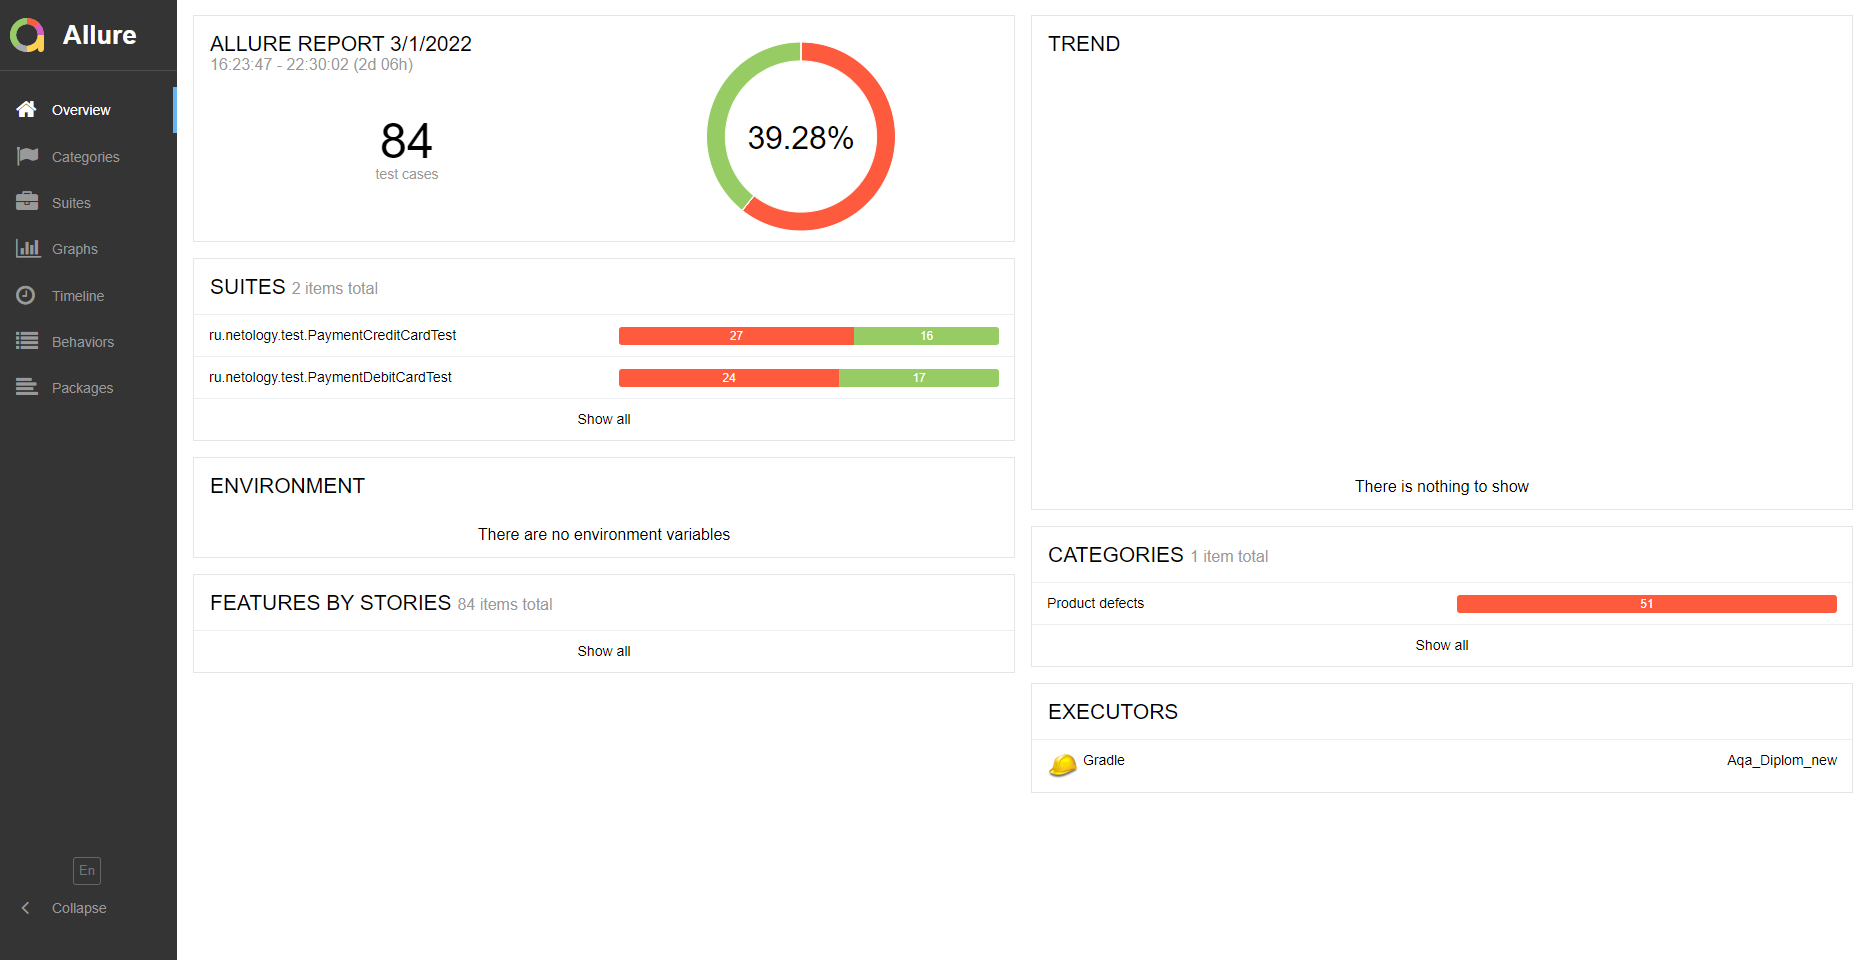
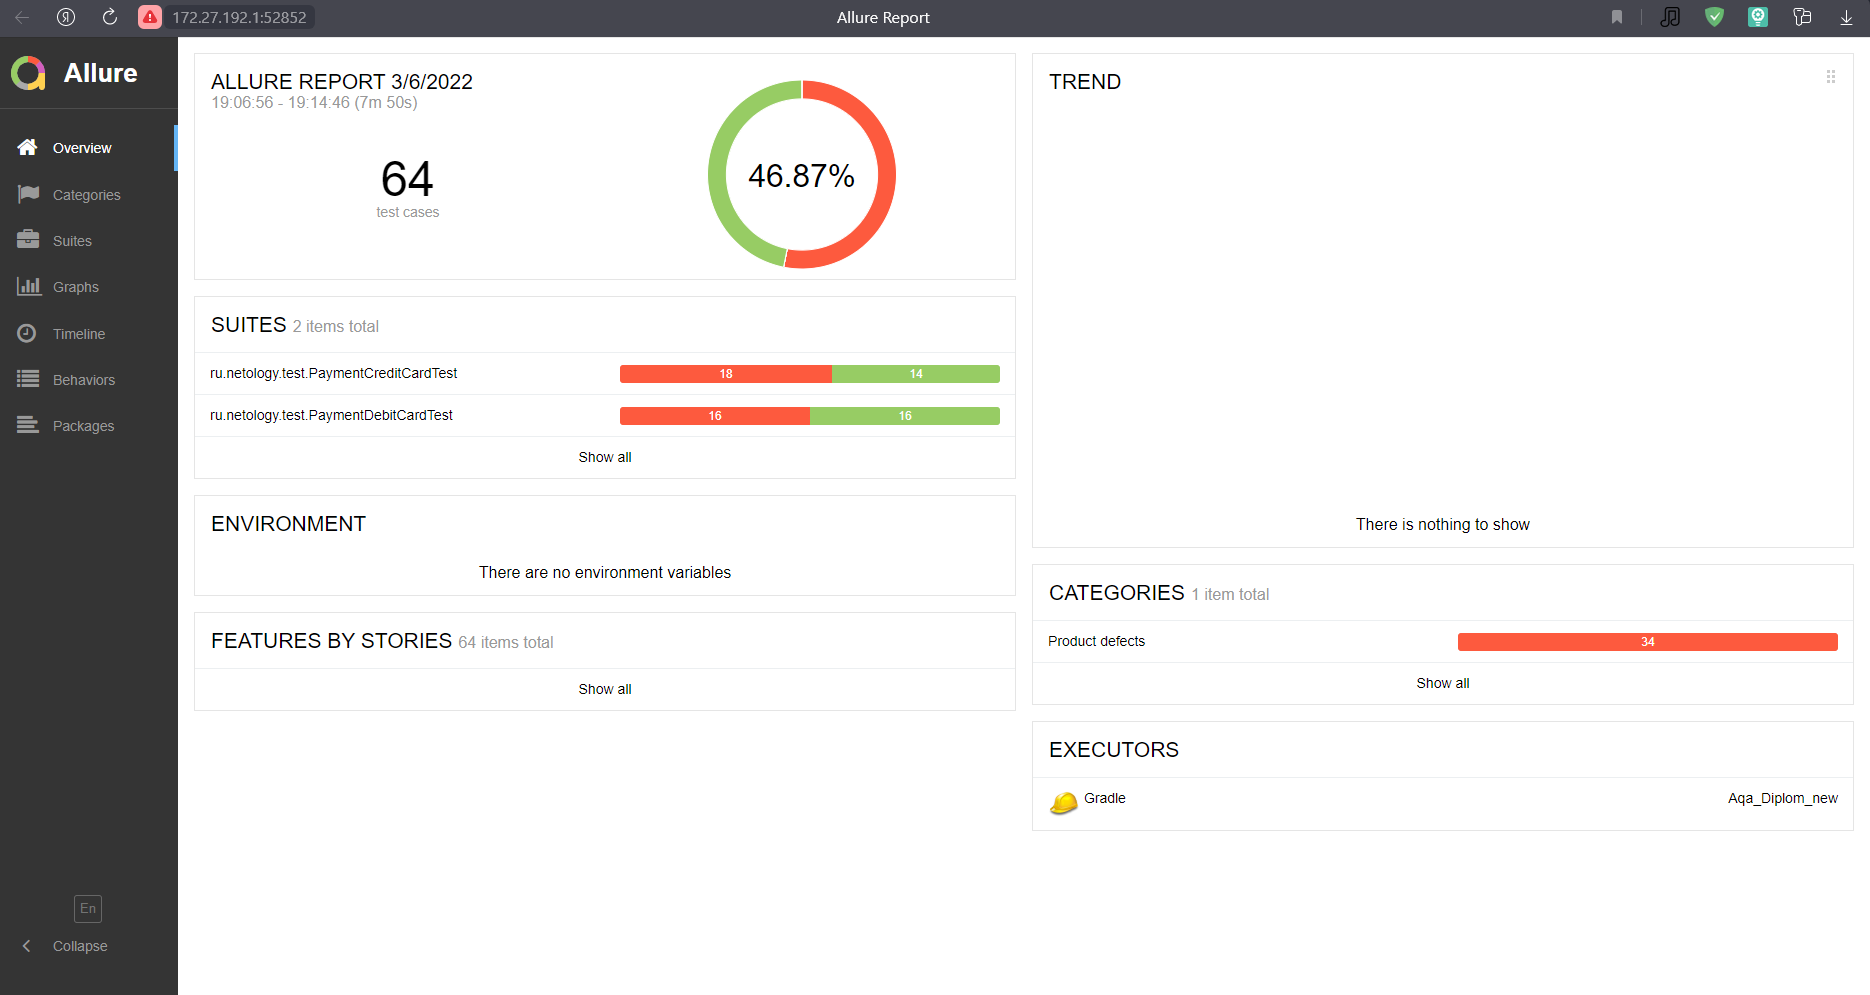
upgrade project

diff --git a/src/test/java/ru/netology/test/PaymentCreditCardTest.java b/src/test/java/ru/netology/test/PaymentCreditCardTest.java
@@ -69,7 +69,7 @@ public class PaymentCreditCardTest {
         assertNotNull(DatabaseHelper.getTransactionTypeCreditCard());
     }
 
-    // Negative Test 1 (1* - для воспроизведения бага)
+    // Negative Test 1
 
     //    Test 1
     @SneakyThrows
@@ -84,19 +84,6 @@ public class PaymentCreditCardTest {
         creditPaymentPage.errorMessageForm();
         assertNull(DatabaseHelper.getTransactionStatusCreditCard());
         assertNull(DatabaseHelper.getTransactionTypeCreditCard());
-    }
-
-    //    Test 1*
-    @SneakyThrows
-    @Test
-    void shouldVisibleExtraMessageWhenCreditBuyWithAnotherCard() {
-        var cardNumber = DataHelper.getAnotherCardNumber();
-        var month = DataHelper.getMonth(3);
-        var year = DataHelper.getYear(1);
-        var owner = DataHelper.getOwner("en");
-        var code = DataHelper.getValidCode();
-        creditPaymentPage.fillOutAllFields(cardNumber, month, year, owner, code);
-        creditPaymentPage.errorMessageForm();
         creditPaymentPage.closeErrorSendFormMessage();
     }
 

diff --git a/src/test/java/ru/netology/test/PaymentDebitCardTest.java b/src/test/java/ru/netology/test/PaymentDebitCardTest.java
@@ -70,7 +70,7 @@ public class PaymentDebitCardTest {
         debitPaymentPage.errorMessageForm();
     }
 
-    // Negative Test 1 (1* - для воспроизведения бага)
+    // Negative Test 1
 
     //    Test 1
     @SneakyThrows
@@ -85,19 +85,6 @@ public class PaymentDebitCardTest {
         debitPaymentPage.errorMessageForm();
         assertNull(DatabaseHelper.getTransactionStatusDebitCard());
         assertNull(DatabaseHelper.getTransactionTypeDebitCard());
-    }
-
-    //    Test 1*
-    @SneakyThrows
-    @Test
-    void shouldVisibleExtraMessageWhenUsualBuyWithAnotherCard() {
-        var cardNumber = DataHelper.getAnotherCardNumber();
-        var month = DataHelper.getMonth(3);
-        var year = DataHelper.getYear(1);
-        var owner = DataHelper.getOwner("en");
-        var code = DataHelper.getValidCode();
-        debitPaymentPage.fillOutAllFields(cardNumber, month, year, owner, code);
-        debitPaymentPage.errorMessageForm();
         debitPaymentPage.closeErrorSendFormMessage();
     }
 

diff --git a/docs/Summary.md b/docs/Summary.md
@@ -4,15 +4,13 @@ ___
 ## _Описание выполненных работ:_
 
 ***Запланированное кол-во тест-кейсов для проверки функционала тестируемого приложения и взаимодействия с СУБД:***
-- *30 тест-кейсов - для оплаты тура по дебетовой карте;*
-- *30 тест-кейсов - для покупки тура в кредит.*
+- *32 тест-кейса - для оплаты тура по дебетовой карте;*
+- *32 тест-кейса - для покупки тура в кредит.*
 
 ***Итоговое кол-во автоматизированных тест-кейсов:***
 
-- *41 тест-кейс - для оплаты тура по дебетовой карте;*
-- *43 тест-кейса - для покупки тура в кредит.*
-
-***Кол-во тест-кейсов было увеличено в связи с определенными алгоритмами работы кода и невозможности воспроизвести несколько багов приложения за один автоматизированный сценарий.***
+- *32 тест-кейса - для оплаты тура по дебетовой карте;*
+- *32 тест-кейса - для покупки тура в кредит.*
 ___
 ## _Сработавшие риски:_
 

diff --git a/docs/Report.md b/docs/Report.md
@@ -5,16 +5,16 @@
 - *Проверена поддержка двух заявленных СУБД: `MySQL` и `PostgreSQL`. Приложение успешно функционирует с каждой из заявленных СУБД.* 
 ___
 ## _Количество тест-кейсов_
-***Было автоматизировано 84 тест-кейса:***
+***Было автоматизировано 64 тест-кейса:***
 
-- *41 тест-кейс для оплаты тура по дебетовой карте;*
-- *43 тест-кейса для покупки тура в кредит;*
+- *32 тест-кейса для оплаты тура по дебетовой карте;*
+- *32 тест-кейса для покупки тура в кредит;*
 
 ***Тест-кейсы содержат UI тесты и запросы, проверяющие информацию в БД.***
 ___
 ## _% успешных/не успешных_
-- ***Кол-во успешных тест-кейсов:*** *33 тест-кейса (39,28%)*;
-- ***Кол-во не успешных тест-кейсов:*** *51 тест-кейс (60,71%)*;
+- ***Кол-во успешных тест-кейсов:*** *30 тест-кейсов (46,87%)*;
+- ***Кол-во не успешных тест-кейсов:*** *34 тест-кейса (53,12%)*;
 
 ***Скриншот:***
 

diff --git a/docs/README.md b/docs/README.md
@@ -3,9 +3,9 @@
 ___
 ## _Документация:_
 
-- ***[План автоматизации](https://github.com/Valeriya908/Aqa_Diplom/blob/master/Plan.md)***
-- ***[Отчет о тестировании](https://github.com/Valeriya908/Aqa_Diplom/blob/master/Report.md)***
-- ***[Отчёт о проведённой автоматизации](https://github.com/Valeriya908/Aqa_Diplom/blob/master/Summary.md)***
+- ***[План автоматизации](https://github.com/Valeriya908/Aqa_Diplom/blob/master/docs/Plan.md)***
+- ***[Отчет о тестировании](https://github.com/Valeriya908/Aqa_Diplom/blob/master/docs/Report.md)***
+- ***[Отчёт о проведённой автоматизации](https://github.com/Valeriya908/Aqa_Diplom/blob/master/docs/Summary.md)***
 ___
 ## _Краткое описание тестируемого приложения:_
 ### _Бизнес часть:_
